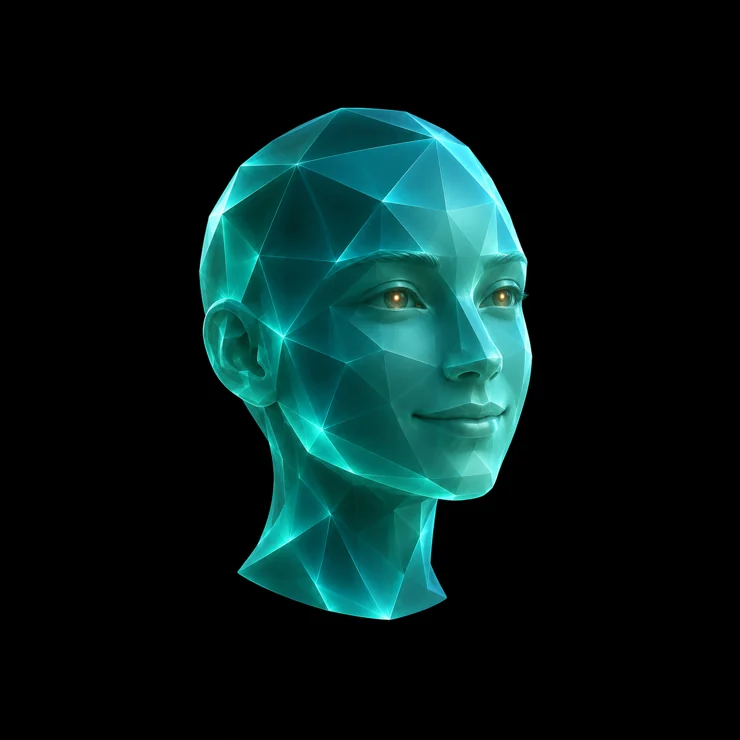
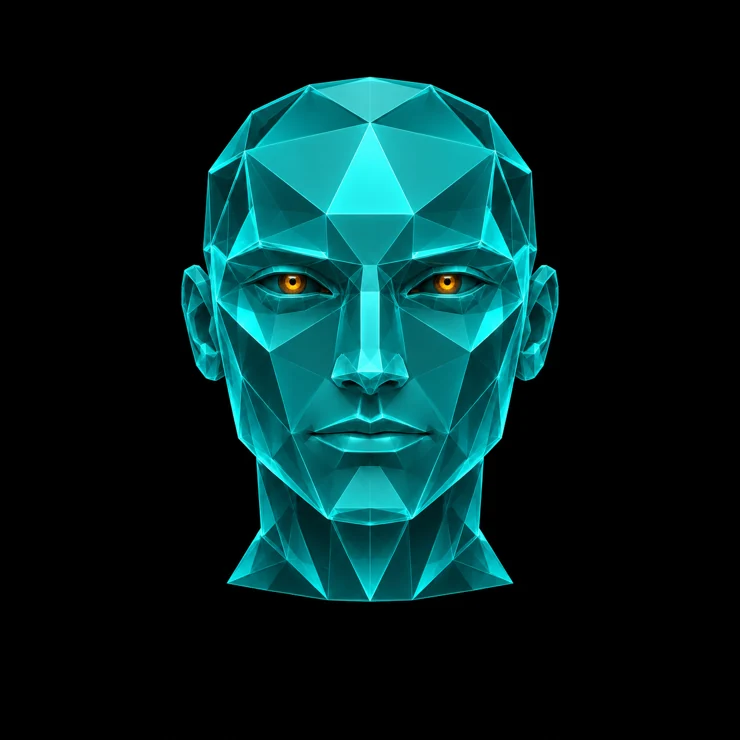
Ana ekran menüsünü üst çubuğa taşı ve avatarı öne döndür

Changed region(s): [[0.2176, 0.0932, 0.777, 0.8392]]

diff --git a/webui/nx.js b/webui/nx.js
@@ -36,11 +36,18 @@ const NAV=[
 function renderTop(){
   const sn=S.snap||{}, n=needCount(), win=sn.winctl!==false;
   const name=(sn.user||{}).name||'Kullanıcı';
+  const home=S.page==='home',top=$('#top'),openPages=top.querySelector?.('.home-pages')?.open;
+  top.closest?.('.workspace')?.classList.toggle('workspace-home',home);
   $('#workspace-nav').innerHTML=NAV.filter(([key])=>key!=='map').map(([key,label,glyph])=>
     `<button type="button" data-go="${key}" ${S.page===key?'aria-current="page"':''}>${ic(glyph)}<span>${label}</span></button>`).join('');
   $('#workspace-profile').innerHTML=`<button type="button" data-act="user" aria-label="Kullanıcı değiştir"><span class="profile-mark">${esc(name.charAt(0))}</span><span><b>${esc(name)}</b><small>Profil ve ayarlar</small></span>${ic('chev')}</button>`;
-  $('#top').innerHTML=`<strong>${esc(NAV.find(([key])=>key===S.page)?.[1]||'Jarvis')}</strong>
-   <div class="top-actions"><span id="clock" aria-hidden="true"></span>
+  const homeActions=home?`<button class="ab home-top-link" data-act="homechat">Sohbeti aç</button>
+    <details class="home-pages" ${openPages?'open':''}><summary>Ekranlar</summary><nav aria-label="Diğer ekranlar">
+    ${NAV.filter(([key])=>['files','vision','team','study','tools'].includes(key)).map(([key,label])=>`<button type="button" data-go="${key}">${label}</button>`).join('')}
+    <button type="button" data-act="user">Kullanıcı değiştir</button></nav></details>
+    <button class="ab home-top-link" data-act="goset" data-k="ai">Ayarlar</button>`:'';
+  top.innerHTML=`<strong>${home?'Jarvis':esc(NAV.find(([key])=>key===S.page)?.[1]||'Jarvis')}</strong>
+   <div class="top-actions">${homeActions}<span id="clock" aria-hidden="true"></span>
     <button class="ab" data-act="notif" aria-label="Bildirimler">${ic('bell')}${n?`<span class="notice-count">${n}</span>`:''}</button>
     ${win?`<button class="ab" data-act="wmin" aria-label="Pencereyi küçült">−</button><button class="ab" data-act="wfull" aria-label="Tam ekran veya pencere">□</button><button class="ab" data-act="wclose" aria-label="Pencereyi kapat">×</button>`:''}
    </div>`;
@@ -80,13 +87,15 @@ function render(){
   drawDock(dock);drawAtt();drawMiniPreview();if(focused)$('#dock input')?.focus();
 }
 document.addEventListener('click',e=>{
-  const g=e.target.closest('[data-go]');if(g){e.preventDefault();if(g.closest('#workspace-nav')){S.tool='';if(g.dataset.go==='tools')S.sset='takvim';if(g.dataset.go==='settings')S.sset='ai'}go(g.dataset.go);return}
+  const homePages=$('.home-pages[open]');
+  if(homePages&&!e.target.closest('.home-pages'))homePages.open=false;
+  const g=e.target.closest('[data-go]');if(g){e.preventDefault();if(g.closest('#workspace-nav, .home-pages')){S.tool='';if(g.dataset.go==='tools')S.sset='takvim';if(g.dataset.go==='settings')S.sset='ai'}go(g.dataset.go);return}
   const sy=e.target.closest('[data-say]');if(sy){e.preventDefault();const v=sy.dataset.say;if(v.startsWith('#'))return go(v.slice(1));say(v);return}
   // Önce açık menüyü kapat, sonra düğmenin işini yap: yoksa profil/bildirim menüsü açılır açılmaz kapanıyordu.
   const a=e.target.closest('[data-act]');if(a&&ACT[a.dataset.act]){e.preventDefault();closeMenu();Promise.resolve(ACT[a.dataset.act](a,e)).catch(err=>toast(err.message||String(err),'bad'));return}
   if(!e.target.closest('.menu'))closeMenu();
 });
-document.addEventListener('keydown',e=>{if(e.key==='Enter'&&e.target.matches('.ask input')){e.preventDefault();if(S.attPending)return toast('Dosyanın yüklenmesini bekle.');const v=e.target.value.trim();if(v||atts().length){e.target.value='';say(v)}}if(e.key==='Escape'){closeMenu();if(S.orb==='speaking'||S.sspeaking)ACT.dstop()}});
+document.addEventListener('keydown',e=>{if(e.key==='Enter'&&e.target.matches('.ask input')){e.preventDefault();if(S.attPending)return toast('Dosyanın yüklenmesini bekle.');const v=e.target.value.trim();if(v||atts().length){e.target.value='';say(v)}}if(e.key==='Escape'){closeMenu();const pages=$('.home-pages[open]');if(pages){pages.open=false;pages.querySelector('summary').focus()}if(S.orb==='speaking'||S.sspeaking)ACT.dstop()}});
 
 // ======================================================================= arayüze uygun soru pencereleri (tarayıcının gri kutusu yerine)
 function _dlg(title,msg,input,def){return new Promise(res=>{const o=document.createElement('div');o.className='jdlg';

diff --git a/webui/nx.css b/webui/nx.css
@@ -63,6 +63,24 @@ a { color:var(--blue) }
 .pagehead { display:flex; gap:14px; justify-content:space-between; align-items:start; margin-bottom:18px }
 .pagehead h1,.team-head h1 { font-size:clamp(28px,3vw,42px); line-height:1.1; letter-spacing:-.055em }
 .pagehead p,.team-head p { color:var(--mut); margin-top:5px }
+.workspace.workspace-home { grid-template-columns:minmax(0,1fr) }
+.workspace-home .workspace-sidebar { display:none }
+.workspace-home .workspace-top { gap:8px 14px; padding-inline:clamp(12px,2vw,32px) }
+.workspace-home .p-home { width:100%; padding:clamp(10px,2vw,28px) clamp(10px,2vw,32px) }
+.home-pages { position:relative }
+.home-pages > summary { cursor:pointer; list-style:none }
+.home-pages > summary::-webkit-details-marker { display:none }
+.home-pages[open] > summary { color:var(--blue); border-color:var(--blue) }
+.home-pages > :is(nav,div) {
+  position:absolute; z-index:13; inset:calc(100% + 6px) 0 auto auto; width:max-content; min-width:170px;
+  display:grid; gap:2px; padding:5px; background:var(--panel); border:1px solid var(--line2);
+  border-radius:8px; box-shadow:var(--shadow);
+}
+.home-pages > :is(nav,div) button {
+  display:flex; align-items:center; gap:9px; min-height:36px; padding:6px 9px;
+  border:0; border-radius:5px; background:none; text-align:left;
+}
+.home-pages > :is(nav,div) button:hover { background:var(--panel2); color:var(--blue) }
 .home-console {
   display:grid; grid-template-columns:minmax(185px,.63fr) minmax(0,1.35fr) minmax(300px,1.17fr); gap:14px;
   min-height:min(77vh,760px);
@@ -432,6 +450,8 @@ a { color:var(--blue) }
 
 @media(max-width:1120px) {
   .workspace { grid-template-columns:183px minmax(0,1fr) }
+}
+@media(max-width:900px) {
   .home-console { grid-template-columns:minmax(0,.8fr) minmax(300px,1.2fr); gap:12px }
   .home-console .home-aside { grid-column:1 / -1; grid-template-columns:repeat(2,minmax(0,1fr)) }
   .home-console .workspace-summary + .workspace-summary { border-top:0; border-left:1px solid var(--line); padding:0 0 0 14px }
@@ -452,6 +472,10 @@ a { color:var(--blue) }
 }
 @media(max-width:620px) {
   .workspace { display:block }
+  .workspace-home .workspace-top { position:relative; padding-block:7px; flex-wrap:wrap }
+  .workspace-home .top-actions { flex-wrap:wrap; justify-content:flex-end }
+  .home-pages { position:static }
+  .home-pages > :is(nav,div) { inset:calc(100% + 2px) 12px auto auto; max-width:calc(100vw - 24px) }
   .workspace-sidebar { position:static; height:auto; padding:7px }
   .workspace-brand { padding:3px 4px 8px }
   #workspace-nav { display:flex; overflow-x:auto; white-space:nowrap }
@@ -522,14 +546,14 @@ a { color:var(--blue) }
   display:none; position:absolute; inset:0; pointer-events:none;
 }
 .console-mouth::before {
-  content:""; position:absolute; left:56%; top:55.7%; width:12%; height:2.2%;
+  content:""; position:absolute; left:43%; top:58.2%; width:14%; height:2.2%;
   border-radius:45%; background:#001017;
-  transform:rotate(-5deg) scaleY(.25); transform-origin:center top;
+  transform:scaleY(.25); transform-origin:center top;
   animation:console-mouth .62s ease-in-out infinite;
 }
 .console-mouth::after {
   content:""; position:absolute; inset:0; background:url('/home-avatar.webp') center / contain no-repeat;
-  clip-path:polygon(53% 57%, 67% 55.6%, 69% 58%, 66% 65%, 59% 67%, 52% 62%);
+  clip-path:polygon(41% 59%, 50% 58.5%, 59% 59%, 60% 63%, 56% 68%, 50% 71%, 44% 68%, 40% 63%);
   animation:console-jaw .62s ease-in-out infinite;
 }
 .console-stage[data-state="speaking"] .console-mouth { display:block }
@@ -539,9 +563,9 @@ a { color:var(--blue) }
   55% { transform:translateY(.45%) }
 }
 @keyframes console-mouth {
-  0%, 40%, 100% { transform:rotate(-5deg) scaleY(.2) }
-  20%, 72% { transform:rotate(-5deg) scaleY(1) }
-  55% { transform:rotate(-5deg) scaleY(.5) }
+  0%, 40%, 100% { transform:scaleY(.2) }
+  20%, 72% { transform:scaleY(1) }
+  55% { transform:scaleY(.5) }
 }
 @media(prefers-reduced-motion:reduce) {
   .console-stage[data-state="speaking"] .console-mouth { display:none }

diff --git a/tests/desktop_workspace_behavior.js b/tests/desktop_workspace_behavior.js
@@ -25,6 +25,13 @@ vm.runInContext(slice('function go(p)','function render()'),test);
 test.renderTop();
 assert(nodes['#workspace-profile'].innerHTML.includes('&lt;img'));
 assert(!nodes['#workspace-profile'].innerHTML.includes('<img'));
+assert(nodes['#top'].innerHTML.includes('class="home-pages"'));
+assert(nodes['#top'].innerHTML.includes('data-act="homechat"'));
+assert(nodes['#top'].innerHTML.includes('data-go="study"'));
+test.S.page='chat';
+test.renderTop();
+assert(!nodes['#top'].innerHTML.includes('class="home-pages"'));
+test.S.page='home';
 for(const route of ['home','chat','files','vision','team','study','tools','settings']){
   assert(nodes['#workspace-nav'].innerHTML.includes('data-go="'+route+'"'));
   test.go(route);

diff --git a/docs/agents/arayuz.md b/docs/agents/arayuz.md
@@ -12,11 +12,11 @@ Hafıza ekranında sunumun9 kapalı tercihi mevcut Profile sahibine `pref_set` i
 
 # Masaüstü arayüzü — 21 Kasım 2026
 
-- Tek masaüstü girişi /nx.html. Sol menü Ana ekran, Sohbet, Dosyalar, Ekran ve PC, Ekip Merkezi, Çalışma, Günlük işler ve Ayarlar sayfalarını doğrudan açar. Yetenek haritası Ayarlar'dan erişilir. Daha önce tarayıcıya kaydedilen geçersiz bir sayfa ana ekrana çözülür.
+- Tek masaüstü girişi /nx.html. Ana ekranda sol gezinti yerine üst çubukta Sohbeti aç, Ekranlar ve Ayarlar bulunur. Ekranlar menüsü diğer masaüstü görünümlerini ve profil seçimini açar. İç sayfalarda sol gezinti kullanılır. Yetenek haritası Ayarlar'dan erişilir. Daha önce tarayıcıya kaydedilen geçersiz bir sayfa ana ekrana çözülür.
 - Ana ekran mevcut gönderme, ekleme ve mikrofon sahiplerini kullanır. Yazılı ve sesli yanıtlar aynı günün sohbet akışında ana ekranda gösterilir. Sohbette aç düğmesi bu konuşmayı sohbet görünümünde açar. Sol panel etkin kullanıcının team_snapshot kayıtlarını durumlarına göre gruplar ve yerel takvimde bugüne ait etkinlikleri gösterir. Örnek kayıt ve tahmini yüzde gösterilmez.
 - Ekip Merkezi seçili çalışmanın adımlarını yanında gösterir. İptal, devam, soru ve onay mevcut team_control ve aynı Core kimliğini kullanır. Form taslağı yalnız aynı işlemin kontrol imzası korunurken yenilemede saklanır. Kullanıcı değişince eski sonuçlar gösterilmez. Uzman, kaynak, kuyruk ve doğrulama araçları mevcut sözleşmelerle çalışır.
 - Teslim indirme, team_artifact üzerinden seçili işin etkin kullanıcıya ait kabul edilmiş adımını yeniden okur. Kanıt, benzersiz dosya adı, izinli kök ve okunan baytların özeti eşleşmesi gerekir. En çok 16 MB. İndirme sonucu işin durumunu değiştirmez.
-- Ana ekran yerel geometrik avatar, ses durumu ve camgöbeği vurgular kullanır. Avatarın ağız hareketi mevcut ses oynatma durumuna bağlıdır; fonem eşleştirmesi yoktur. Dalga yalnız dinleme veya konuşmada hareket eder. Azaltılmış hareket tercihi iki animasyonu da kapatır. Diğer sayfalarda kayıtlı açık, koyu ve sistem tercihleri geçerlidir. Dosyalar ve teslim başlıkları mevcut cam belge görselini kullanır.
+- Ana ekran doğrudan kullanıcıya bakan yerel geometrik avatar, ses durumu ve camgöbeği vurgular kullanır. Avatarın ağız hareketi mevcut ses oynatma durumuna bağlıdır; fonem eşleştirmesi yoktur. Dalga yalnız dinleme veya konuşmada hareket eder. Azaltılmış hareket tercihi iki animasyonu da kapatır. Diğer sayfalarda kayıtlı açık, koyu ve sistem tercihleri geçerlidir. Dosyalar ve teslim başlıkları mevcut cam belge görselini kullanır.
 - Dosyalar sayfasında arama ve liste solda, seçili dosya ve işlemleri sağdadır. `file_preview` etkin kullanıcıyı ve mevcut dosya köklerini denetler. İlk PDF sayfası mevcut PDFium okuyucusunda, desteklenen görseller Pillow ile yerelde küçültülerek çizilir. En çok 20 MB kaynak okunur. Yanıt yalnız istek sahibi ve seçili dosya hâlâ eşleşiyorsa gösterilir.
 - Ayarlar: tek sayfa, mevcut form ve araç sahipleri. Sol bölüm seçimi, Ayarlarda ara, sağlayıcı kartları, ses, hesap, gizlilik ve GitHub işlemleri korunur. Gönderme, pencere ve onay kontrolleri mevcut yerel /api köprüsünü kullanır.
 - Paylaşım, Ekran ve PC sayfasından veya ortak yazı çubuğunun seçeneklerinden açıkça seçilir. Ekran sayfası kendi önizlemesini gösterir, diğer sayfalarda mevcut yerel köşe önizlemesi kullanılır. Kamera ve Windows işlemleri gerçek cihazdan ayrıca doğrulanır.

diff --git a/AGENTS.md b/AGENTS.md
@@ -43,7 +43,7 @@ Alana özgü ayrıntılar `docs/agents/` altındadır. İlgili alanı değiştir
 - `docs/agents/mail-takvim.md`: Mail, takvim ve hatırlatma (24 bölüm)
 - `docs/agents/haber.md`: Haber araştırması ve kaynaklar (18 bölüm)
 - `docs/agents/gorev-cekirdegi.md`: Görev çekirdeği, hedef yürütücüsü ve araçlar; şehir tercihinde koşul/soru ve kibar reset sınırları ve BRAIN-05 Goal Resolver (29 bölüm)
-- `docs/agents/arayuz.md`: Masaüstü, ana ekranda konuşma ve ses durumu (3 bölüm)
+- `docs/agents/arayuz.md`: Masaüstü, ana ekran gezintisi, konuşma ve avatar (3 bölüm)
 - `docs/agents/ses-video.md`: Ses ve video (11 bölüm)
 - `docs/agents/pc-masaustu.md`: PC, masaüstü ve tarayıcı kontrolü (12 bölüm)
 - `docs/agents/yerel-git-emniyet-kemeri.md`: Yerel Git commit/push emniyet kemeri (3 bölüm)
